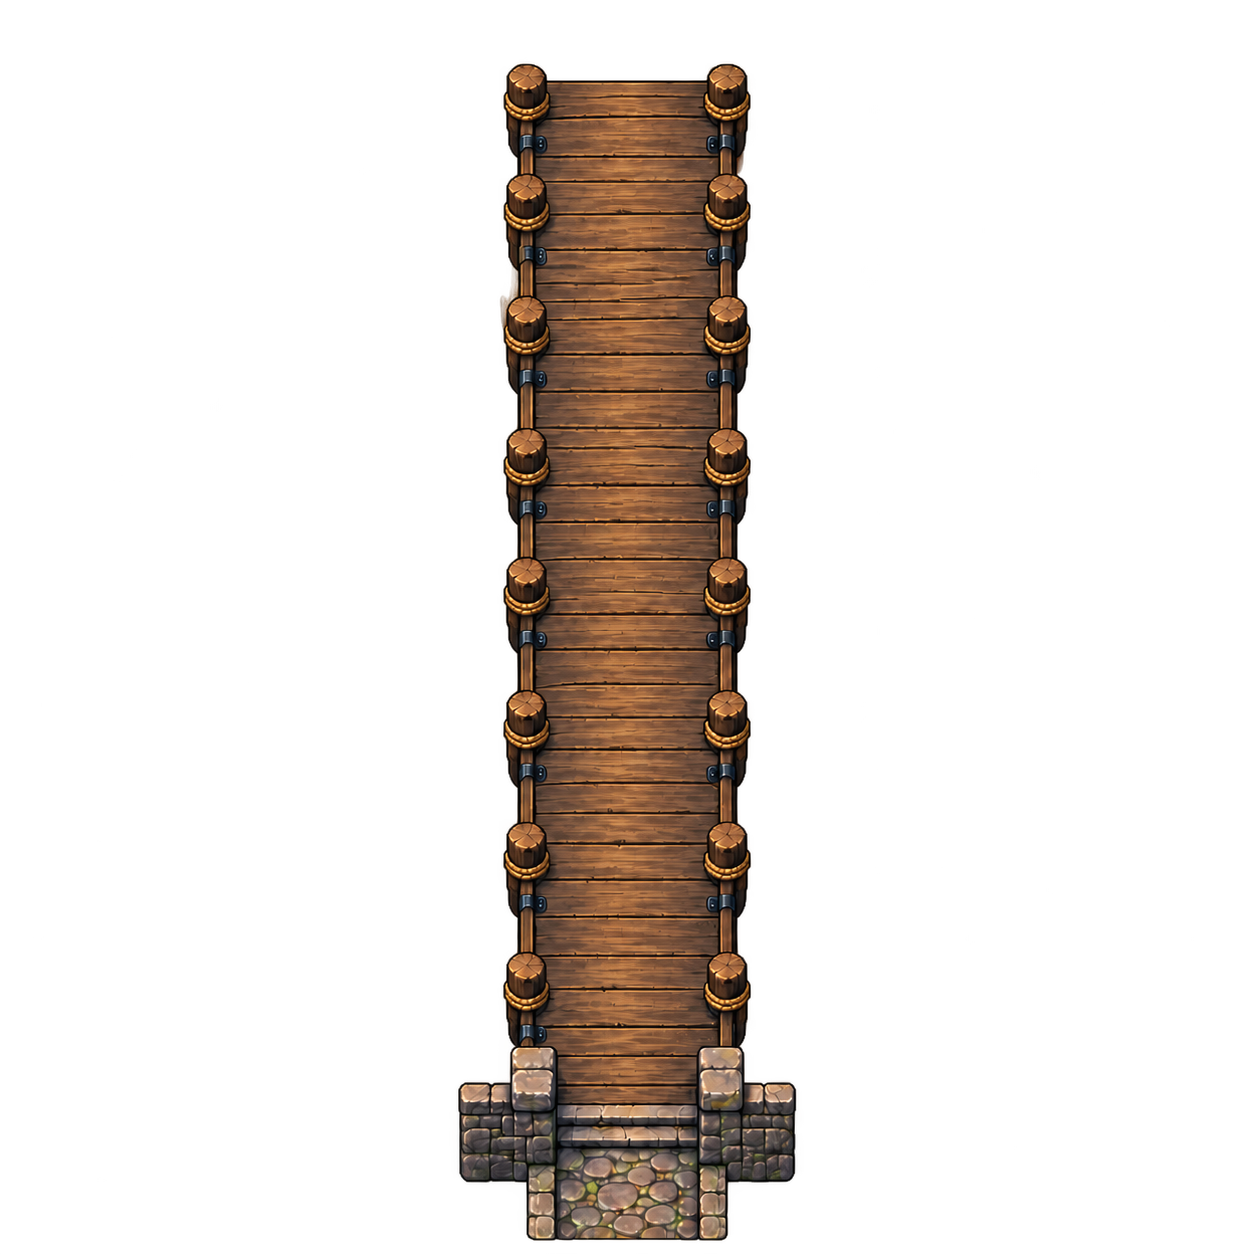
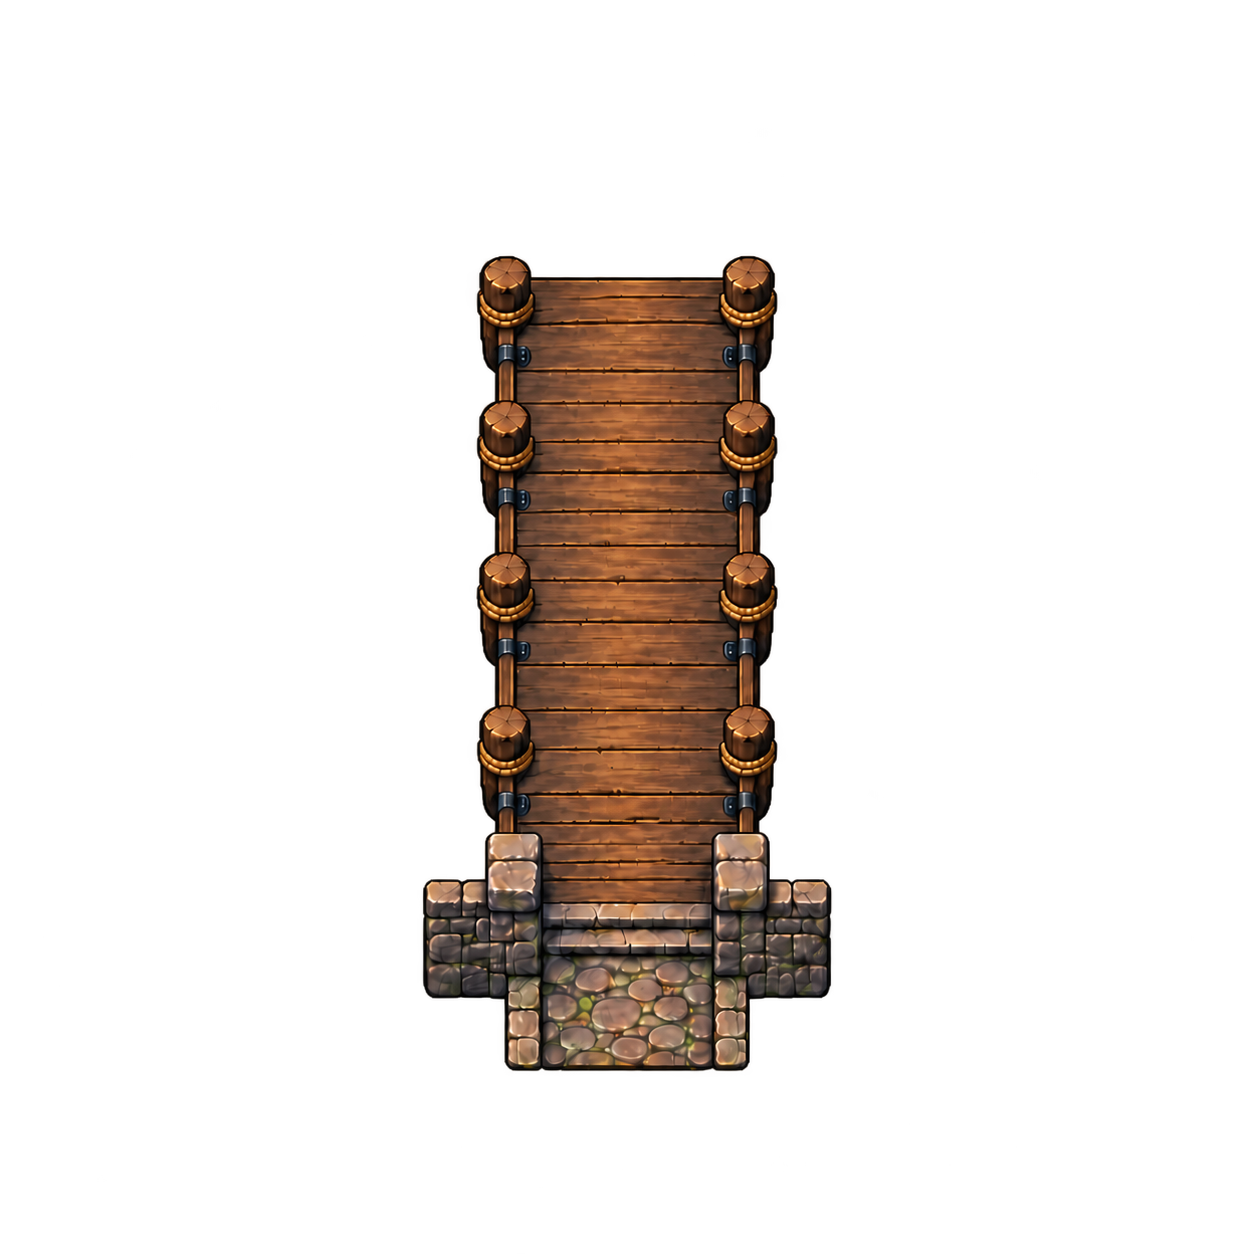
fix: improve harbors and cap battle hands

Changed region(s): [[0.311, 0.0311, 0.6842, 0.9952]]

diff --git a/v2-battle.js b/v2-battle.js
@@ -20,6 +20,7 @@
 
   const DISCIPLINE_LABELS = Object.freeze({ sword: '剣', technique: '技', guard: '守', magic: '魔法' });
   const CARD_ATTRIBUTE_LABELS = Object.freeze({ neutral: '無', fire: '炎', ice: '氷', heal: '癒', insight: '心' });
+  const HAND_SIZE = 5;
 
   const ENEMY_LIBRARY = Object.freeze({
     'mist-slime': Object.freeze({ id: 'mist-slime', name: '宵霧のスライム', maxHp: 26, attack: 9, gold: 8, xp: 12, intent: '体当たり', weakness: 'fire' }),
@@ -136,7 +137,7 @@
       ? profile.deck.filter(cardId => CARD_LIBRARY[cardId])
       : defaultDeck();
     const battleDeck = expandedBattleDeck(configuredDeck.length ? configuredDeck : defaultDeck());
-    const opening = drawCards(shuffled(battleDeck, random), [], 5, random);
+    const opening = drawCards(shuffled(battleDeck, random), [], HAND_SIZE, random);
     const maxHp = Math.max(1, Math.floor(Number(profile.maxHp) || 42));
     const hp = Math.max(1, Math.min(maxHp, Math.floor(Number(profile.hp) || maxHp)));
     const energy = Math.max(1, Math.min(4, Math.floor(Number(profile.energy) || 1)));
@@ -363,8 +364,12 @@
       : Math.min(battle.enemy.maxHp, enemyHp + intent.heal);
     if (recoveredHp > enemyHp) effects.push({ type: 'heal', target: 'enemy', amount: recoveredHp - enemyHp });
     const remainingHand = removeSelectedFromHand(battle.hand, spent);
-    const needed = Math.max(0, 5 + action.draw - remainingHand.length);
+    const needed = Math.max(0, HAND_SIZE + action.draw - remainingHand.length);
     const nextDraw = drawCards(battle.deck, [...battle.discard, ...spent], needed, random);
+    const replenishedHand = [...remainingHand, ...nextDraw.cards];
+    const overflowCount = Math.max(0, replenishedHand.length - HAND_SIZE);
+    const cycledCards = replenishedHand.slice(0, overflowCount);
+    const nextHand = replenishedHand.slice(overflowCount);
     const intentPattern = battle.enemy.intentPattern || INTENT_PATTERN;
     const intentRevealTurns = action.revealIntent ? 3 : Math.max(0, currentRevealTurns - 1);
     return {
@@ -379,8 +384,8 @@
         intentId: intentPattern[(battle.enemy.intentIndex + 1) % intentPattern.length]
       },
       deck: nextDraw.deck,
-      discard: nextDraw.discard,
-      hand: [...remainingHand, ...nextDraw.cards].slice(0, 7),
+      discard: [...nextDraw.discard, ...cycledCards],
+      hand: nextHand,
       selected: [],
       selectedIndices: [],
       selectedCost: 0,

diff --git a/tests/v2-osm-source.test.js b/tests/v2-osm-source.test.js
@@ -167,9 +167,16 @@ test('Past Evening map build clips roads to an island and draws ports at coastal
   assert.match(builder, /HARBOR_PIER_SOURCE_PATH/);
   assert.match(builder, /HARBOR_SHIP_SOURCE_PATH/);
   assert.match(builder, /HARBOR_LIGHTHOUSE_SOURCE_PATH/);
+  assert.match(builder, /HARBOR_PIER_SCALE\s*=\s*0\.72/);
+  assert.match(builder, /HARBOR_LIGHTHOUSE_INLAND\s*=\s*0\.46/);
+  assert.match(builder, /HARBOR_LIGHTHOUSE_SIDE\s*=\s*0\.10/);
   assert.match(builder, /pier_sprite\.rotate/);
   assert.doesNotMatch(builder, /ship_sprite\.rotate|lighthouse_sprite\.rotate/);
+  assert.match(builder, /center\[0\]\s*-\s*outward\[0\]\s*\*\s*size\s*\*\s*HARBOR_LIGHTHOUSE_INLAND\s*\+\s*side\[0\]\s*\*\s*size\s*\*\s*HARBOR_LIGHTHOUSE_SIDE/);
+  assert.match(builder, /center\[1\]\s*-\s*outward\[1\]\s*\*\s*size\s*\*\s*HARBOR_LIGHTHOUSE_INLAND\s*\+\s*side\[1\]\s*\*\s*size\s*\*\s*HARBOR_LIGHTHOUSE_SIDE/);
   assert.match(builder, /composite_upright_harbor_prop/);
+  assert.match(builder, /canvas\.width\s*-\s*sprite\.width/);
+  assert.match(builder, /canvas\.height\s*-\s*sprite\.height/);
   assert.match(builder, /Image\.Resampling\.LANCZOS/);
   assert.match(builder, /alpha_composite/);
   assert.match(builder, /ImageChops\.multiply/);

diff --git a/tests/v2-battle.test.js b/tests/v2-battle.test.js
@@ -73,6 +73,25 @@ test('opening redraw is unavailable after selecting an action or after turn one'
   assert.equal(redrawOpeningCards(battle, [], () => 0), battle);
 });
 
+test('draw effects cycle unplayed cards while the battle hand stays fixed at five', () => {
+  const battle = {
+    ...createBattle('mist-slime', () => 0),
+    hand: ['focus', 'guard', 'slash', 'spark', 'frost'],
+    deck: ['parry', 'cleave', 'feint', 'flame-edge', 'fortress', 'mend'],
+    discard: [],
+    selected: ['focus'],
+    selectedIndices: [0]
+  };
+  const cardsBefore = [...battle.hand, ...battle.deck, ...battle.discard].sort();
+
+  const next = resolveTurn(battle, () => 0);
+
+  assert.equal(next.hand.length, 5);
+  assert.deepEqual(next.hand, ['slash', 'spark', 'frost', 'parry', 'cleave']);
+  assert.deepEqual(next.discard, ['focus', 'guard']);
+  assert.deepEqual([...next.hand, ...next.deck, ...next.discard].sort(), cardsBefore);
+});
+
 test('every card has explicit type and attribute labels independent of its artwork glyph', () => {
   for (const card of Object.values(CARD_LIBRARY)) {
     assert.ok(DISCIPLINE_LABELS[card.discipline], `${card.id} has no type label`);

diff --git a/v2.html b/v2.html
@@ -191,10 +191,10 @@
     <script src="assets/v2/road-collision-data.js?edition=1"></script>
     <script src="assets/v2/road-collision-past-data.js?edition=1"></script>
     <script src="assets/v2/map-layout-data.js?edition=1"></script>
-    <script src="v2-editions.js?edition=4"></script>
+    <script src="v2-editions.js?edition=5"></script>
     <script src="v2-assets.js?edition=1"></script>
     <script src="v2-landmarks.js?edition=1"></script>
-    <script src="v2-battle.js?edition=6"></script>
+    <script src="v2-battle.js?edition=7"></script>
     <script src="v2-past-world.js?edition=6"></script>
     <script src="v2-past-campaign.js?edition=7"></script>
     <script src="v2-past-scenes.js?edition=7"></script>

diff --git a/tests/v2-past-tiles.test.js b/tests/v2-past-tiles.test.js
@@ -32,6 +32,7 @@ test('past runtime tiles were generated from the final road-composited map', () 
 
 test('past tile and runtime scripts use the current cache versions', () => {
   const html = fs.readFileSync('v2.html', 'utf8');
-  assert.match(html, /v2-editions\.js\?edition=4/);
+  assert.match(html, /v2-editions\.js\?edition=5/);
+  assert.match(html, /v2-battle\.js\?edition=7/);
   assert.match(html, /v2\.js\?edition=18/);
 });

diff --git a/tests/v2-editions.test.js b/tests/v2-editions.test.js
@@ -28,7 +28,7 @@ test('both editions use four-tile seamless map directories', () => {
 
 test('Past Evening increments its tile cache version when the road-composited tiles change', () => {
   const past = editionDefinition('past');
-  assert.equal(past.tileVersion, 4);
+  assert.equal(past.tileVersion, 5);
 });
 
 test('Past Evening uses its own medieval landmark art with matching filenames', () => {

diff --git a/v2-editions.js b/v2-editions.js
@@ -20,7 +20,7 @@
       label: '過去編-夕方',
       subtitle: 'PAST · EVENING',
       tileDirectory: 'past-evening-runtime-tiles',
-      tileVersion: 4,
+      tileVersion: 5,
       landmarkDirectory: 'past-landmarks',
       landmarkSizeOverrides: Object.freeze({
         // The source sprite is tightly cropped after removing sheet-edge bleed.

diff --git a/tools/build-v2-geographic-map.py b/tools/build-v2-geographic-map.py
@@ -23,6 +23,10 @@ PAST_LAND_MASK_PATH = ROOT / "assets" / "v2" / "past-land-mask.png"
 HARBOR_PIER_SOURCE_PATH = ROOT / "assets" / "v2" / "past-events" / "harbor-pier-source.png"
 HARBOR_SHIP_SOURCE_PATH = ROOT / "assets" / "v2" / "past-events" / "harbor-ship-source.png"
 HARBOR_LIGHTHOUSE_SOURCE_PATH = ROOT / "assets" / "v2" / "past-events" / "harbor-lighthouse-source.png"
+HARBOR_PIER_SCALE = 0.72
+HARBOR_SHIP_OUTWARD = 0.16
+HARBOR_LIGHTHOUSE_INLAND = 0.46
+HARBOR_LIGHTHOUSE_SIDE = 0.10
 COLLISION_DATA_PATH = ROOT / "assets" / "v2" / "road-collision-data.js"
 PAST_COLLISION_DATA_PATH = ROOT / "assets" / "v2" / "road-collision-past-data.js"
 LAYOUT_DATA_PATH = ROOT / "assets" / "v2" / "map-layout-data.js"
@@ -261,6 +265,9 @@ def composite_upright_harbor_prop(
     sprite = sprite.resize((target_width, target_height), Image.Resampling.LANCZOS)
     left = round(anchor[0] - sprite.width / 2)
     top = round(anchor[1] - sprite.height)
+    # Keep upright ships and towers fully visible at ports close to the map edge.
+    left = max(0, min(left, canvas.width - sprite.width))
+    top = max(0, min(top, canvas.height - sprite.height))
     canvas.alpha_composite(sprite, (left, top))
 
 
@@ -274,7 +281,8 @@ def draw_past_ports(canvas: Image.Image, layout: dict, land_mask: Image.Image) -
     lighthouse_source = Image.open(HARBOR_LIGHTHOUSE_SOURCE_PATH).convert("RGBA")
     for x, y, angle, road_width in coastal_road_ports(layout, land_mask):
         size = round(max(128, min(158, 112 + road_width * 1.35)) * SUPERSAMPLE)
-        pier_sprite = pier_source.resize((size, size), Image.Resampling.LANCZOS)
+        pier_size = round(size * HARBOR_PIER_SCALE)
+        pier_sprite = pier_source.resize((pier_size, pier_size), Image.Resampling.LANCZOS)
         # Only the low, mostly top-down deck follows the road/shore direction.
         # Rotating the former combined sprite also turned towers and masts
         # sideways, contradicting the map's consistent pseudo-3D projection.
@@ -292,16 +300,16 @@ def draw_past_ports(canvas: Image.Image, layout: dict, land_mask: Image.Image) -
         side = -outward[1], outward[0]
         prop_anchors = (
             (
-                center[0] + outward[0] * size * 0.12 + side[0] * size * 0.24,
-                center[1] + outward[1] * size * 0.12 + side[1] * size * 0.24,
+                center[0] + outward[0] * size * HARBOR_SHIP_OUTWARD + side[0] * size * 0.22,
+                center[1] + outward[1] * size * HARBOR_SHIP_OUTWARD + side[1] * size * 0.22,
                 ship_source,
-                round(size * 0.66),
+                round(size * 0.58),
             ),
             (
-                center[0] + outward[0] * size * 0.08 - side[0] * size * 0.24,
-                center[1] + outward[1] * size * 0.08 - side[1] * size * 0.24,
+                center[0] - outward[0] * size * HARBOR_LIGHTHOUSE_INLAND + side[0] * size * HARBOR_LIGHTHOUSE_SIDE,
+                center[1] - outward[1] * size * HARBOR_LIGHTHOUSE_INLAND + side[1] * size * HARBOR_LIGHTHOUSE_SIDE,
                 lighthouse_source,
-                round(size * 0.5),
+                round(size * 0.44),
             ),
         )
         for anchor_x, anchor_y, source, target_height in sorted(prop_anchors, key=lambda item: item[1]):

diff --git a/assets/v2/PAST_ASSET_PROMPTS.md b/assets/v2/PAST_ASSET_PROMPTS.md
@@ -196,3 +196,28 @@ Perspective: front-facing pseudo-3D overworld sprite rather than a flat overhead
 Lighting/mood: neutral ambient asset lighting with restrained warm window glow; no long directional cast shadow.
 Constraints: genuinely transparent background; no water, no terrain, no pier, no lighthouse, no rowboat, no extra building, no text, no UI, no watermark. Do not tilt or rotate the mast left, right, or downward.
 ```
+
+## 港のコンパクトな桟橋
+
+`harbor-pier-source.png` の短縮再制作
+
+```text
+Use case: precise-object-edit
+Asset type: transparent rotatable JRPG overworld pier component
+Input image: Image 1 is the exact pier asset to edit and the style/material reference.
+Primary request: Shorten the visible wooden pier to about 55–60 percent of its current length. Keep only four evenly spaced wooden deck bays between the clean squared seaward end and the low stone land-connection landing. Preserve the current pier width, warm brown boards, low round posts, rope details, dark metal brackets, stone landing, crisp painted texture, outline weight, and overall visual quality. Do not merely squash or vertically scale the existing art: reconstruct it naturally as a deliberately compact harbor pier with fewer repeated sections.
+Composition/framing: keep a square 2048×2048 transparent canvas. Center the shorter pier vertically and horizontally. Its midpoint must remain at the exact canvas center so rotation around the canvas center remains correct. The squared seaward end points to exact top center and the stone land connection points to exact bottom center. Leave generous and approximately balanced transparent padding above and below the shortened structure.
+Perspective: mostly top-down deck surface with only shallow edge thickness. It must remain visually natural when rotated to any coast direction.
+Constraints: genuine PNG alpha transparency outside the pier and landing; no checkerboard baked into pixels; no water; no terrain; no shoreline; no ship; no boat; no lighthouse; no building; no mast; no flags; no crates; no barrels; no text; no UI; no watermark; no new props; no directional cast shadow.
+```
+
+`harbor-pier-source.png` の透過背景補正
+
+```text
+Use case: background-extraction
+Asset type: transparent rotatable JRPG overworld pier component
+Input image: Image 1 is the exact compact pier edit target. The visible pale gray and white checkerboard is an incorrect baked background, not artwork.
+Primary request: Remove only the entire checkerboard and every background pixel, replacing them with genuine PNG alpha transparency. Preserve the compact four-bay wooden pier and low stone landing exactly as shown: same shape, pixel position, proportions, center point, colors, painted detail, warm boards, posts, ropes, brackets, stones, scale, vertical orientation, and balanced padding. Do not redraw, move, resize, rotate, stretch, crop, or restyle the pier.
+Composition/framing: retain the same square canvas and centered layout. Seaward end stays at top center, stone land connection stays at bottom center.
+Constraints: actual transparent alpha pixels everywhere outside the pier and landing; clean antialiased cutout edges; no gray or white checkerboard; no pale background; no halo; no new objects; no changes to the artwork; no water; no terrain; no text; no UI; no watermark.
+```
